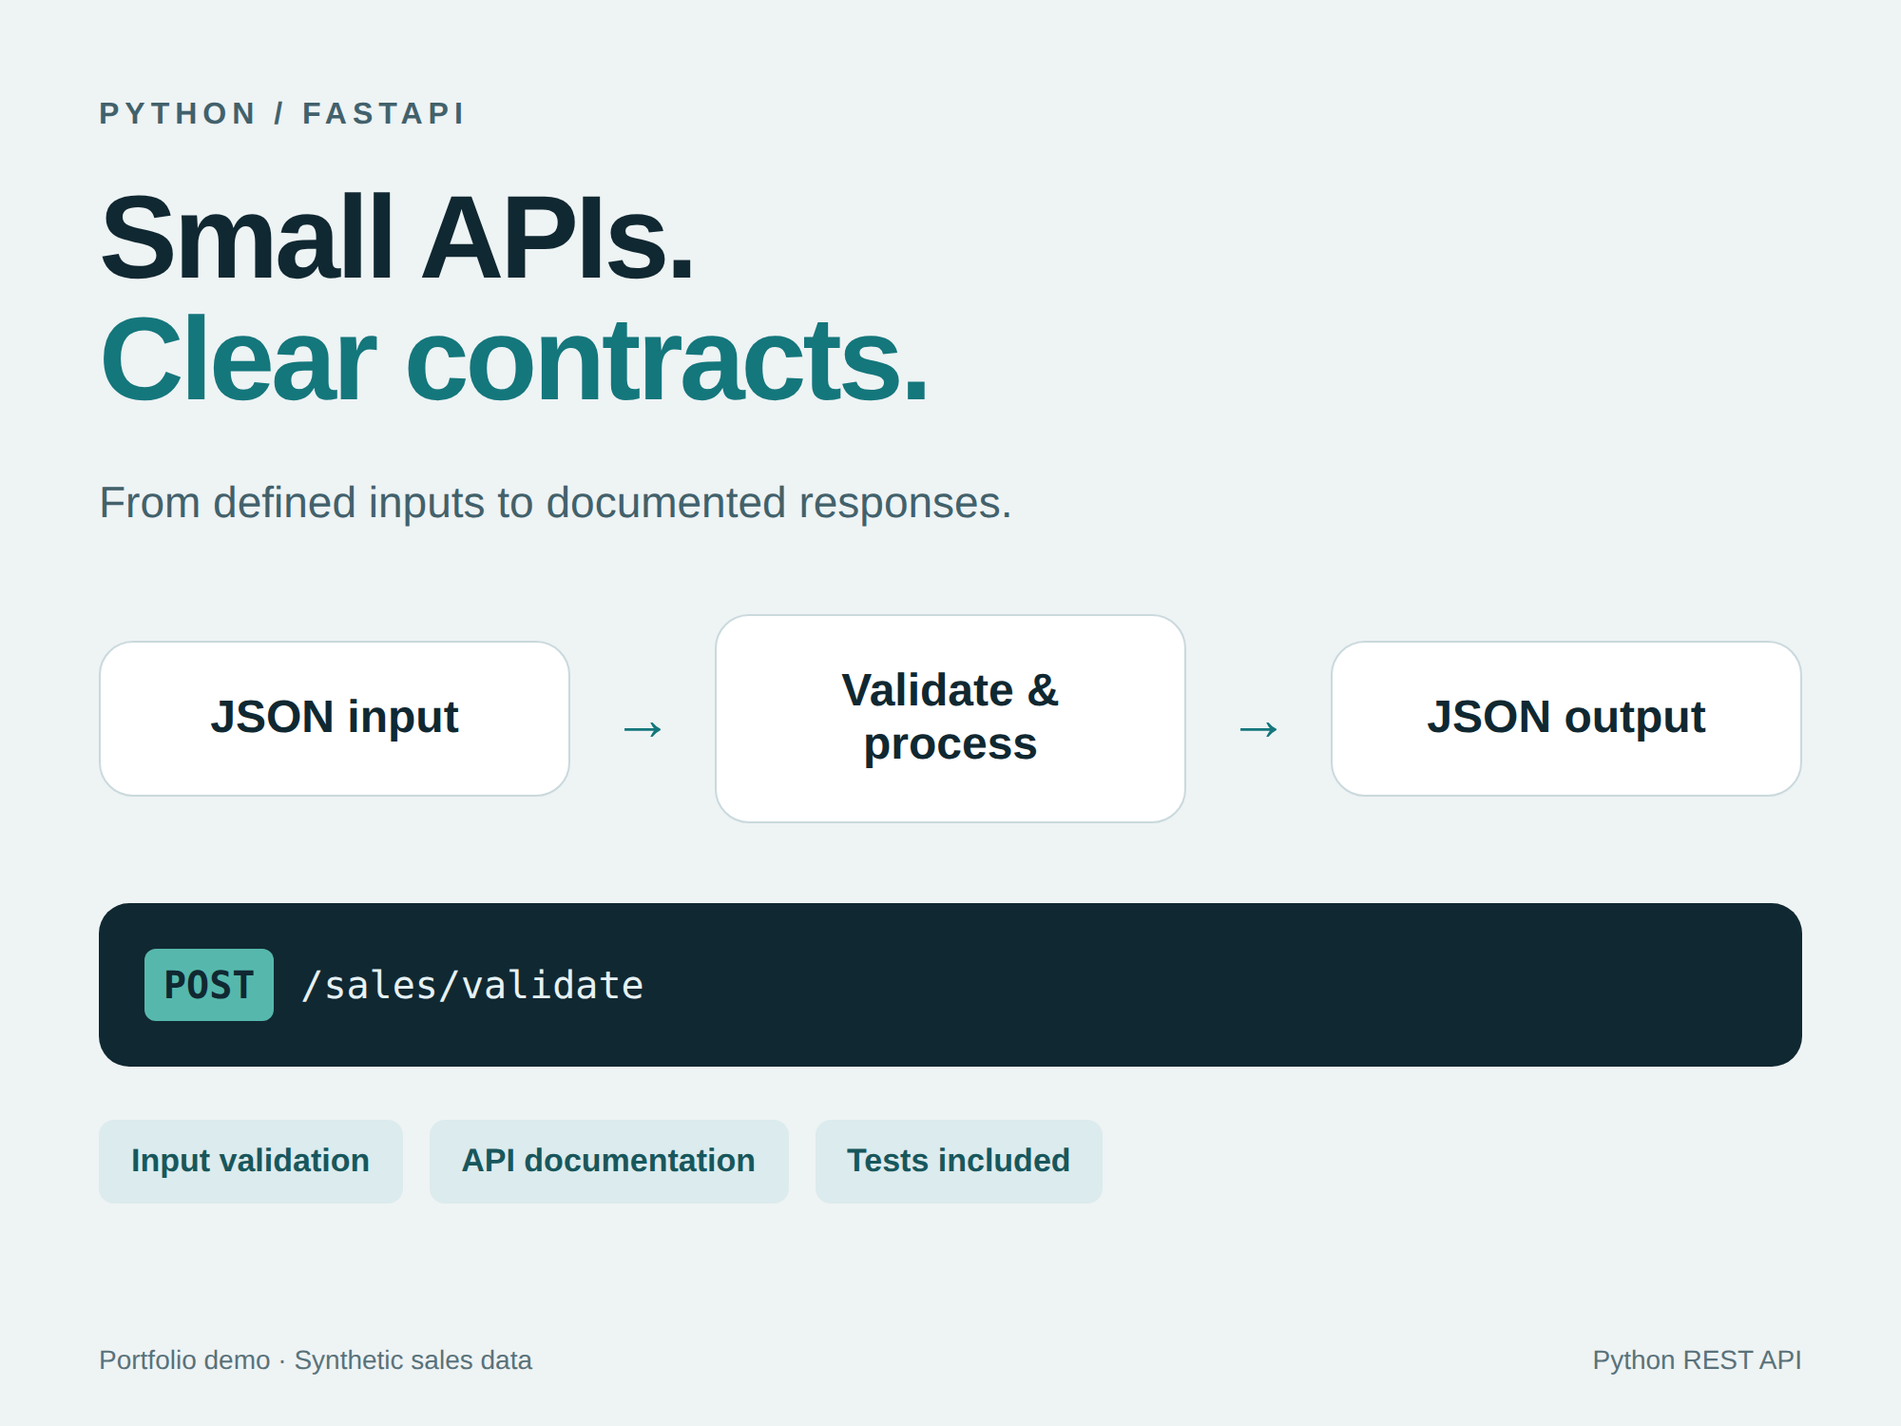
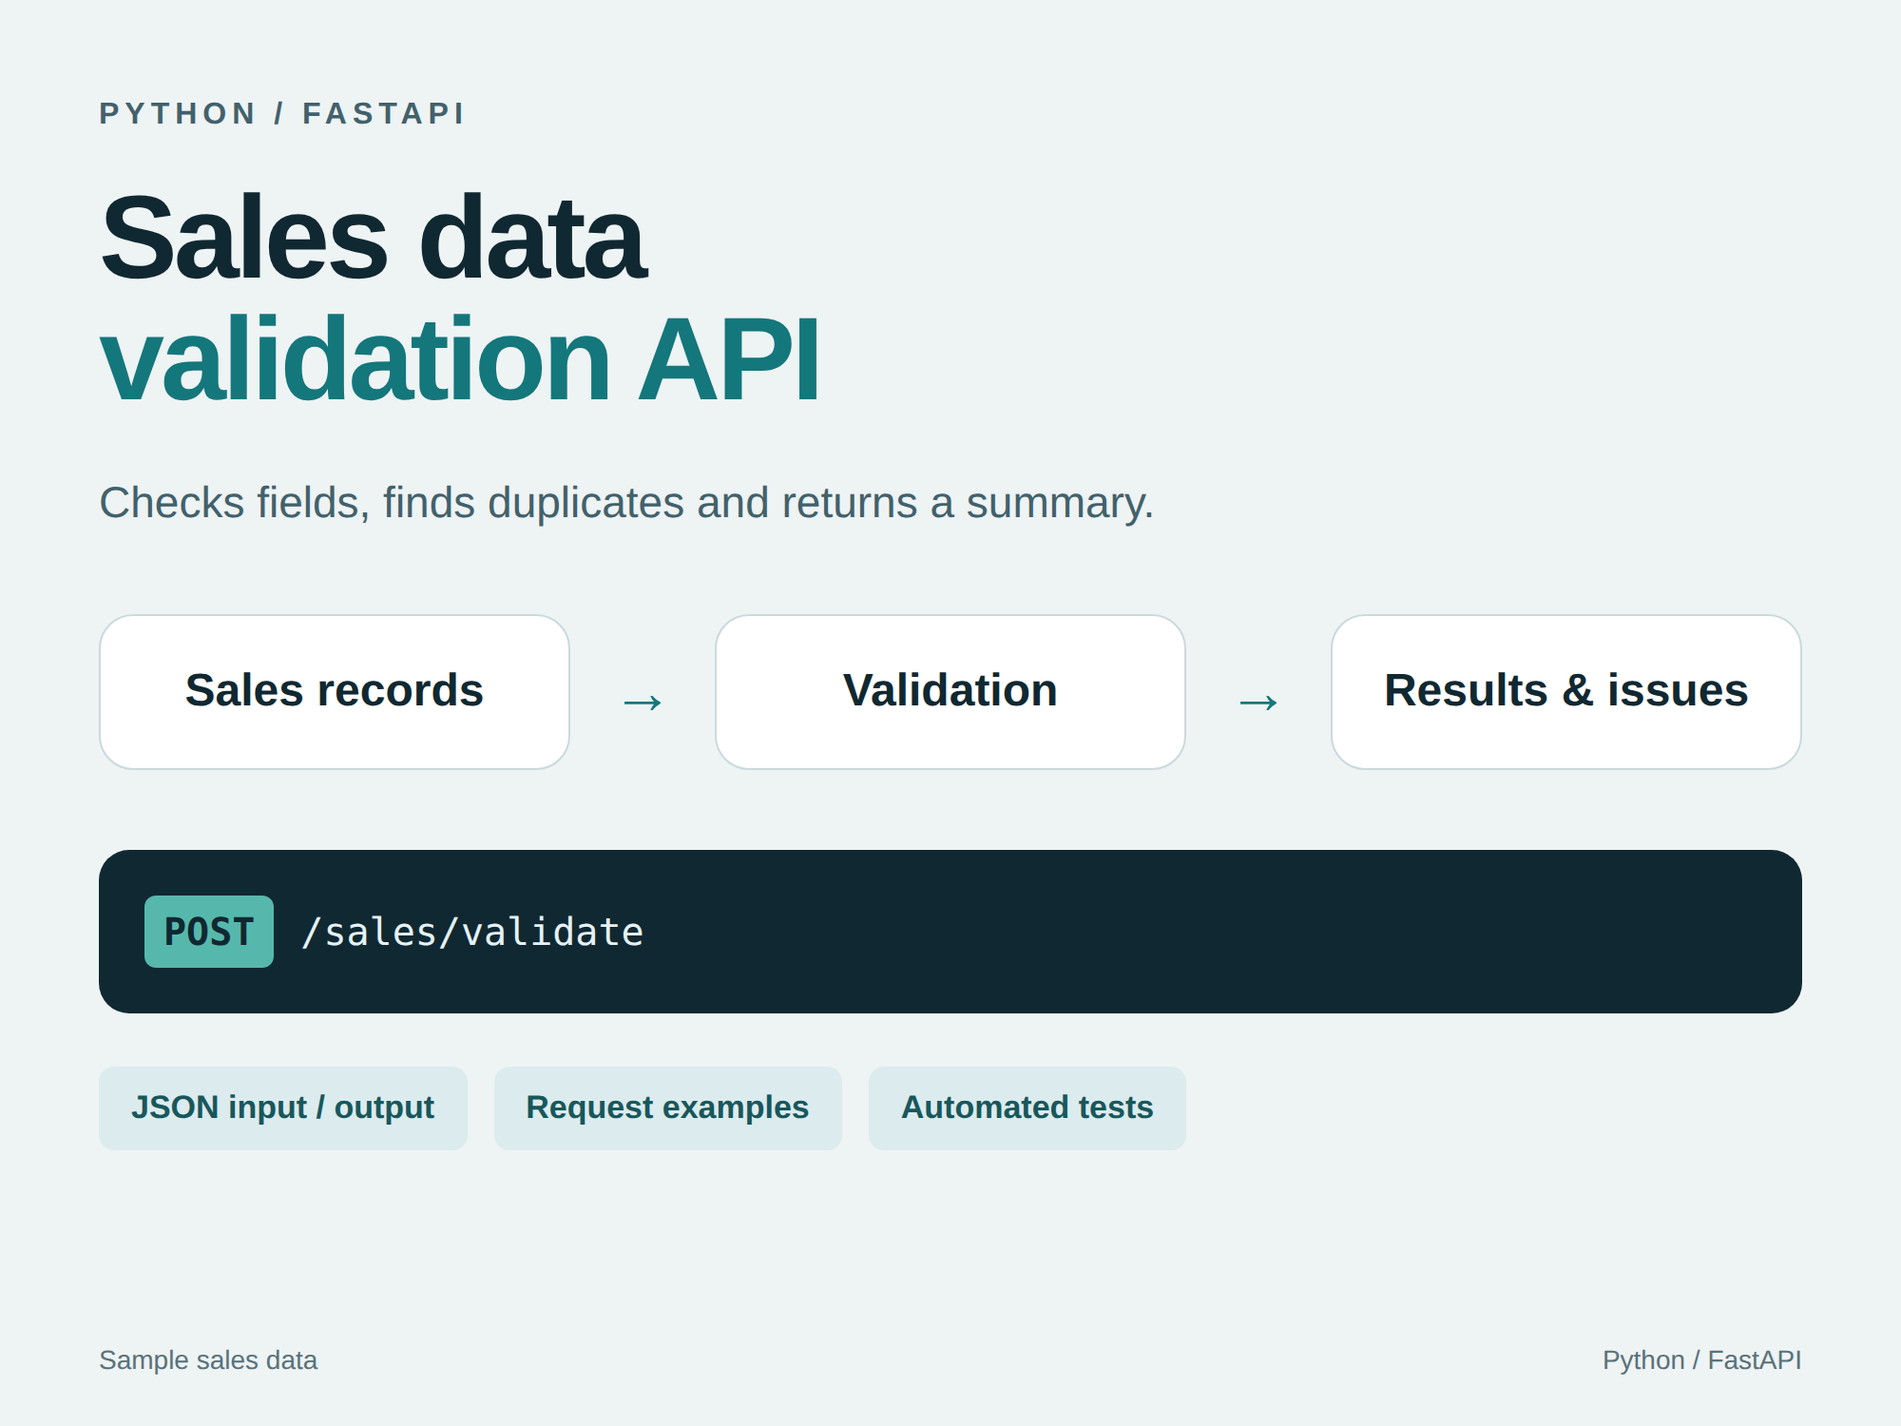
Describe the sales API in plain project language
* Describe the sales API in plain project language

* Keep the README focused on the sales workflow

diff --git a/assets/api/02-sample-result.html b/assets/api/02-sample-result.html
@@ -22,9 +22,9 @@ color:#526b74;margin-top:5px}.split{display:grid;grid-template-columns:1.1fr 1fr
 font-size:18px;line-height:1.4}.issue small{color:#59727a;font-size:14px}
 .doc{width:896px;height:460px;object-fit:cover;object-position:top;border:1px solid #ccdce0;
 border-radius:12px;background:white}.caption{font-size:18px;color:#42616b;margin-top:17px}
-</style></head><main><div class='eyebrow'>Actual API response / HTTP 200</div><h2>Valid records stay.<br><span class='accent'>Issues stay visible.</span></h2><div class='stats'><div class='stat'><div class='num'>4</div><div class='label'>Input records</div></div><div class='stat'><div class='num'>2</div><div class='label'>Accepted</div></div><div class='stat'><div class='num'>1</div><div class='label'>Rejected</div></div><div class='stat'><div class='num'>1</div><div class='label'>Duplicate</div></div></div><div class='split'><div class='dark'><div class='route'>Response excerpt</div><pre>{
+</style></head><main><div class='eyebrow'>POST /sales/validate · HTTP 200</div><h2>Sales validation results</h2><div class='stats'><div class='stat'><div class='num'>4</div><div class='label'>Input records</div></div><div class='stat'><div class='num'>2</div><div class='label'>Accepted</div></div><div class='stat'><div class='num'>1</div><div class='label'>Rejected</div></div><div class='stat'><div class='num'>1</div><div class='label'>Duplicate</div></div></div><div class='split'><div class='dark'><div class='route'>Response excerpt</div><pre>{
   &quot;totals_by_currency&quot;: {
     &quot;EUR&quot;: &quot;15.00&quot;,
     &quot;USD&quot;: &quot;20.50&quot;
   }
-}</pre><div style='margin-top:22px;color:#a2c9d2;font-size:16px'>Separate currency totals.<br>Exact decimal strings.</div></div><div><div class='issue'><small>Record 2 · duplicate</small><div>duplicate transaction; first valid occurrence at row 1; SKU PEN</div></div><div class='issue'><small>Record 3 · rejected</small><div>invalid quantity</div></div></div></div><footer class='footer'><span>Portfolio demo · Synthetic sales data</span><span>Python REST API</span></footer></main></html>
+}</pre><div style='margin-top:22px;color:#a2c9d2;font-size:16px'>Separate currency totals.<br>Exact decimal strings.</div></div><div><div class='issue'><small>Record 2 · duplicate</small><div>duplicate transaction; first valid occurrence at row 1; SKU PEN</div></div><div class='issue'><small>Record 3 · rejected</small><div>invalid quantity</div></div></div></div><footer class='footer'><span>Sample sales data</span><span>Python / FastAPI</span></footer></main></html>

diff --git a/assets/api/01-service-cover.html b/assets/api/01-service-cover.html
@@ -22,4 +22,4 @@ color:#526b74;margin-top:5px}.split{display:grid;grid-template-columns:1.1fr 1fr
 font-size:18px;line-height:1.4}.issue small{color:#59727a;font-size:14px}
 .doc{width:896px;height:460px;object-fit:cover;object-position:top;border:1px solid #ccdce0;
 border-radius:12px;background:white}.caption{font-size:18px;color:#42616b;margin-top:17px}
-</style></head><main><div class='eyebrow'>Python / FastAPI</div><h1>Small APIs.<br><span class='accent'>Clear contracts.</span></h1><div class='sub'>From defined inputs to documented responses.</div><div class='flow'><div class='node'>JSON input</div><span class='arrow'>→</span><div class='node'>Validate & process</div><span class='arrow'>→</span><div class='node'>JSON output</div></div><div class='dark route'><span class='method'>POST</span>/sales/validate</div><div class='badges' style='margin-top:28px'><span class='badge'>Input validation</span><span class='badge'>API documentation</span><span class='badge'>Tests included</span></div><footer class='footer'><span>Portfolio demo · Synthetic sales data</span><span>Python REST API</span></footer></main></html>
+</style></head><main><div class='eyebrow'>Python / FastAPI</div><h1>Sales data<br><span class='accent'>validation API</span></h1><div class='sub'>Checks fields, finds duplicates and returns a summary.</div><div class='flow'><div class='node'>Sales records</div><span class='arrow'>→</span><div class='node'>Validation</div><span class='arrow'>→</span><div class='node'>Results & issues</div></div><div class='dark route'><span class='method'>POST</span>/sales/validate</div><div class='badges' style='margin-top:28px'><span class='badge'>JSON input / output</span><span class='badge'>Request examples</span><span class='badge'>Automated tests</span></div><footer class='footer'><span>Sample sales data</span><span>Python / FastAPI</span></footer></main></html>

diff --git a/assets/api/03-api-docs.html b/assets/api/03-api-docs.html
@@ -22,4 +22,4 @@ color:#526b74;margin-top:5px}.split{display:grid;grid-template-columns:1.1fr 1fr
 font-size:18px;line-height:1.4}.issue small{color:#59727a;font-size:14px}
 .doc{width:896px;height:460px;object-fit:cover;object-position:top;border:1px solid #ccdce0;
 border-radius:12px;background:white}.caption{font-size:18px;color:#42616b;margin-top:17px}
-</style></head><main><div class='eyebrow'>Interactive documentation</div><h2>Explore the API contract.</h2><img class='doc' src='swagger-raw.png' alt='Actual local API documentation'><div class='caption'>Request schemas · Response models · Try-it-out controls</div><footer class='footer'><span>Portfolio demo · Synthetic sales data</span><span>Python REST API</span></footer></main></html>
+</style></head><main><div class='eyebrow'>Interactive documentation</div><h2>Available endpoints</h2><img class='doc' src='swagger-raw.png' alt='Actual local API documentation'><div class='caption'>Send a request from the browser and inspect the response.</div><footer class='footer'><span>Sample sales data</span><span>Python / FastAPI</span></footer></main></html>

diff --git a/scripts/capture_api_gallery.py b/scripts/capture_api_gallery.py
@@ -79,17 +79,17 @@ def main() -> None:
         + "\n"
     )
     summary = result["summary"]
-    footer = "<footer class='footer'><span>Portfolio demo · Synthetic sales data</span><span>Python REST API</span></footer>"
+    footer = "<footer class='footer'><span>Sample sales data</span><span>Python / FastAPI</span></footer>"
     cover = document(
         "<main><div class='eyebrow'>Python / FastAPI</div>"
-        "<h1>Small APIs.<br><span class='accent'>Clear contracts.</span></h1>"
-        "<div class='sub'>From defined inputs to documented responses.</div>"
-        "<div class='flow'><div class='node'>JSON input</div><span class='arrow'>→</span>"
-        "<div class='node'>Validate & process</div><span class='arrow'>→</span>"
-        "<div class='node'>JSON output</div></div>"
+        "<h1>Sales data<br><span class='accent'>validation API</span></h1>"
+        "<div class='sub'>Checks fields, finds duplicates and returns a summary.</div>"
+        "<div class='flow'><div class='node'>Sales records</div><span class='arrow'>→</span>"
+        "<div class='node'>Validation</div><span class='arrow'>→</span>"
+        "<div class='node'>Results & issues</div></div>"
         "<div class='dark route'><span class='method'>POST</span>/sales/validate</div>"
-        "<div class='badges' style='margin-top:28px'><span class='badge'>Input validation</span>"
-        "<span class='badge'>API documentation</span><span class='badge'>Tests included</span></div>"
+        "<div class='badges' style='margin-top:28px'><span class='badge'>JSON input / output</span>"
+        "<span class='badge'>Request examples</span><span class='badge'>Automated tests</span></div>"
         + footer
         + "</main>"
     )
@@ -111,8 +111,8 @@ def main() -> None:
         for issue in result["issues"]
     )
     run = document(
-        "<main><div class='eyebrow'>Actual API response / HTTP 200</div>"
-        "<h2>Valid records stay.<br><span class='accent'>Issues stay visible.</span></h2>"
+        "<main><div class='eyebrow'>POST /sales/validate · HTTP 200</div>"
+        "<h2>Sales validation results</h2>"
         f"<div class='stats'>{stats}</div><div class='split'>"
         f"<div class='dark'><div class='route'>Response excerpt</div><pre>{excerpt}</pre>"
         "<div style='margin-top:22px;color:#a2c9d2;font-size:16px'>Separate currency totals.<br>Exact decimal strings.</div></div>"
@@ -131,9 +131,9 @@ def main() -> None:
         page.screenshot(path=str(output / "swagger-raw.png"))
         docs = document(
             "<main><div class='eyebrow'>Interactive documentation</div>"
-            "<h2>Explore the API contract.</h2>"
+            "<h2>Available endpoints</h2>"
             "<img class='doc' src='swagger-raw.png' alt='Actual local API documentation'>"
-            "<div class='caption'>Request schemas · Response models · Try-it-out controls</div>"
+            "<div class='caption'>Send a request from the browser and inspect the response.</div>"
             + footer
             + "</main>"
         )

diff --git a/sales_automation/api.py b/sales_automation/api.py
@@ -1,4 +1,4 @@
-"""Local, stateless JSON demo reusing the CLI's sales validation rules."""
+"""HTTP endpoints for the existing sales validation rules."""
 
 from collections import defaultdict
 from dataclasses import asdict
@@ -87,9 +87,8 @@ app = FastAPI(
     title="Sales Validation API",
     version="0.1.0",
     description=(
-        "Local portfolio demo: validate, normalize and deduplicate JSON sales records. "
-        "No database, file writes or exchange-rate requests. Monetary values are returned "
-        "as decimal strings, grouped by their original currency."
+        "Send sales records as JSON to check fields, normalize values and find duplicates. "
+        "The response includes accepted records, issues and totals for each currency."
     ),
 )
 
@@ -103,7 +102,7 @@ def health() -> HealthOutput:
     "/sales/validate",
     response_model=BatchOutput,
     tags=["Sales"],
-    summary="Validate a batch without discarding valid records",
+    summary="Validate sales records",
     description=(
         "Supply 1–1000 records with string-valued cells. Invalid sale values and missing "
         "cells become per-record issues; malformed JSON, wrong types, unknown fields and "

diff --git a/README.md b/README.md
@@ -3,19 +3,18 @@
 Python automation that combines sales exports, checks inconsistent records,
 converts currencies through a REST API, and delivers reconciled Excel/CSV reports.
 
+For sales records that already arrive as JSON, a FastAPI endpoint runs the same
+validation and duplicate checks and returns the results directly.
+
 ![Summary of the sample report](assets/summary.png)
 
 [Watch the 75-second walkthrough](assets/demo.mp4) ·
 [Download the Excel report](examples/output/report.xlsx)
 
-## Problem
-
 Sales channels export different columns, date formats, decimal separators, and
 currencies. Combining those files manually means checking each row, finding
 repeated transactions, and converting amounts before totals can be trusted.
 A missed duplicate or invalid quantity changes the final report.
-
-## Solution
 
 Run one command against a YAML configuration. The pipeline maps each export to a
 common schema, separates invalid rows, removes duplicate lines, converts amounts
@@ -25,7 +24,7 @@ The report keeps accepted transactions and issues traceable to their source and
 row number. A rejected row does not prevent the remaining valid rows from being
 processed.
 
-## Demo result
+## Example run
 
 The included synthetic dataset and reference-rate snapshot produce:
 
@@ -114,20 +113,24 @@ of the venv and pip installation commands, then activate `.venv` as above.
 Local runs write these files to `output/`, along with `app.log`. The files under
 `examples/output/` are the fixed portfolio examples and are not overwritten.
 
-## Optional FastAPI demo
+## Validate sales over HTTP
 
-The repository also includes a stateless JSON API for validating and deduplicating
-sales records. It reuses the existing domain rules and returns accepted records,
-issues and separate currency totals without file writes or external requests.
+Send a batch of JSON records to `POST /sales/validate`. The response contains
+accepted sales, invalid rows, duplicates and totals for each currency. A bad
+record is reported without preventing the others from being processed.
 
-See [the API demo guide](docs/api-demo.md) for installation, endpoints, example
-requests/responses, tests and a portfolio walkthrough. Install the `api` extra to run
-it; the CLI does not require FastAPI.
+```bash
+python -m pip install -e ".[api]"
+python -m uvicorn sales_automation.api:app --host 127.0.0.1 --port 8000
+```
 
-![FastAPI demo overview](assets/api/01-service-cover.png)
+Open <http://127.0.0.1:8000/docs> to try a request, or use
+[the sample JSON](examples/api/request.json). The [API guide](docs/api-demo.md)
+explains the fields, limits and error responses.
 
-The [API gallery](assets/api/README.md) includes a real sample response and an
-interactive-documentation screenshot using synthetic sales data.
+Unlike the file workflow, this endpoint returns JSON directly. It does not write
+reports or convert currencies. [Screenshots and a sample response](assets/api/README.md)
+show what it returns.
 
 ## Tests
 
@@ -152,8 +155,9 @@ assets/                      Report preview and walkthrough
 examples/input/              Synthetic channel exports
 examples/output/             Committed example reports
 examples/exchange_rates.json Controlled FX snapshot
-sales_automation/            Reconciliation pipeline
-scripts/                     Synthetic input generator
+sales_automation/            Reconciliation pipeline and sales API
+docs/                        API usage and request examples
+scripts/                     Sample data and screenshot generation
 tests/                       Automated checks
 config.example.yaml          Source mappings and runtime settings
 ```
@@ -170,6 +174,6 @@ config.example.yaml          Source mappings and runtime settings
 
 ## Tech stack
 
-Python · pandas · openpyxl · requests · PyYAML · pytest · Ruff
+Python · FastAPI · pandas · openpyxl · requests · PyYAML · pytest · Ruff
 
 Licensed under [MIT](LICENSE).

diff --git a/docs/api-demo.md b/docs/api-demo.md
@@ -1,12 +1,11 @@
-# FastAPI sales validation demo
+# Sales validation API
 
-This optional API complements the file-based reconciliation CLI. It demonstrates a
-JSON contract, Pydantic validation, partial batch processing, error responses,
-OpenAPI documentation and endpoint tests. It reuses the existing normalization,
-validation and duplicate-detection functions.
+Use this endpoint when sales records arrive as JSON rather than CSV or Excel files.
+It checks the fields, normalizes values and finds duplicates using the same functions
+as the file workflow. The response contains accepted records, issues and totals for
+each currency. It does not create Excel reports or fetch exchange rates.
 
-All sample records are fictional. This is a locally runnable portfolio component,
-not a deployed service or a client case study.
+The examples use fictional sales records.
 
 ## Run locally
 
@@ -97,23 +96,12 @@ HTTP tests validate the example, mixed/error batches, decimal handling, duplicat
 identity and simultaneous requests. Exchange-rate requests are forbidden by the
 API test fixture. HTTP tests skip if FastAPI is absent; CI installs both extras.
 
-## Boundaries
+## Storage and deployment
 
-No configuration/file reads, report writes, exchange-rate requests, persistent
-records or deduplication across requests. Each call operates on independent data.
-The original CLI still provides file processing and report generation.
+Each request is processed in memory. Records are not saved, and duplicate checks
+apply only within that request. Use the CLI for file imports and Excel reports.
 
-Run on localhost. Authentication, public hosting, storage, file uploads and
-production deployment are outside this sample's scope.
+The commands above bind to localhost. Authentication and public hosting are not
+configured in this project.
 
-## Portfolio walkthrough
-
-1. Show `/docs` and the request model.
-2. Execute the sample and show the two accepted records.
-3. Explain the rejected quantity, duplicate and reconciliation counts.
-4. Show separate currency totals, precise money strings and the original order ID.
-5. Send an invalid request to demonstrate HTTP 422, then show endpoint tests.
-
-Existing video/report assets demonstrate the CLI. The [FastAPI gallery](../assets/api/README.md)
-includes a separate documentation screenshot and a presentation of a verified API
-response. Its capture script and data are included for reproducibility.
+[Screenshots](../assets/api/README.md) show the documentation and the sample response.

diff --git a/assets/api/README.md b/assets/api/README.md
@@ -1,18 +1,17 @@
-# FastAPI gallery
+# API screenshots
 
-The three numbered PNGs are presentation assets for the local portfolio demo:
+These images show the sales validation endpoint and its output:
 
-1. `01-service-cover.png` — service overview.
+1. `01-service-cover.png` — what the endpoint does.
 2. `02-sample-result.png` — actual sample response, counts, issues and currency totals.
-3. `03-api-docs.png` — screenshot of the running API documentation in a presentation frame.
+3. `03-api-docs.png` — the API documentation in the browser.
 
-Each image is 2000×1500 pixels (4:3). All example sales are synthetic. The figures
-describe the sample request, not customer results, performance or freelancer revenue.
+Each image is 2000×1500 pixels (4:3). The sales records are fictional.
 
 `swagger-raw.png` is the unframed documentation screenshot. `sample-response.json`
 was fetched from the running API and checked against `examples/api/response.json`.
-`capture-metadata.json` records capture time. HTML files are reproducible layouts,
-not an additional application or claims about a client interface.
+`capture-metadata.json` records when they were captured. The HTML files contain
+the layouts used to render the images.
 
 ## Recreate
 
